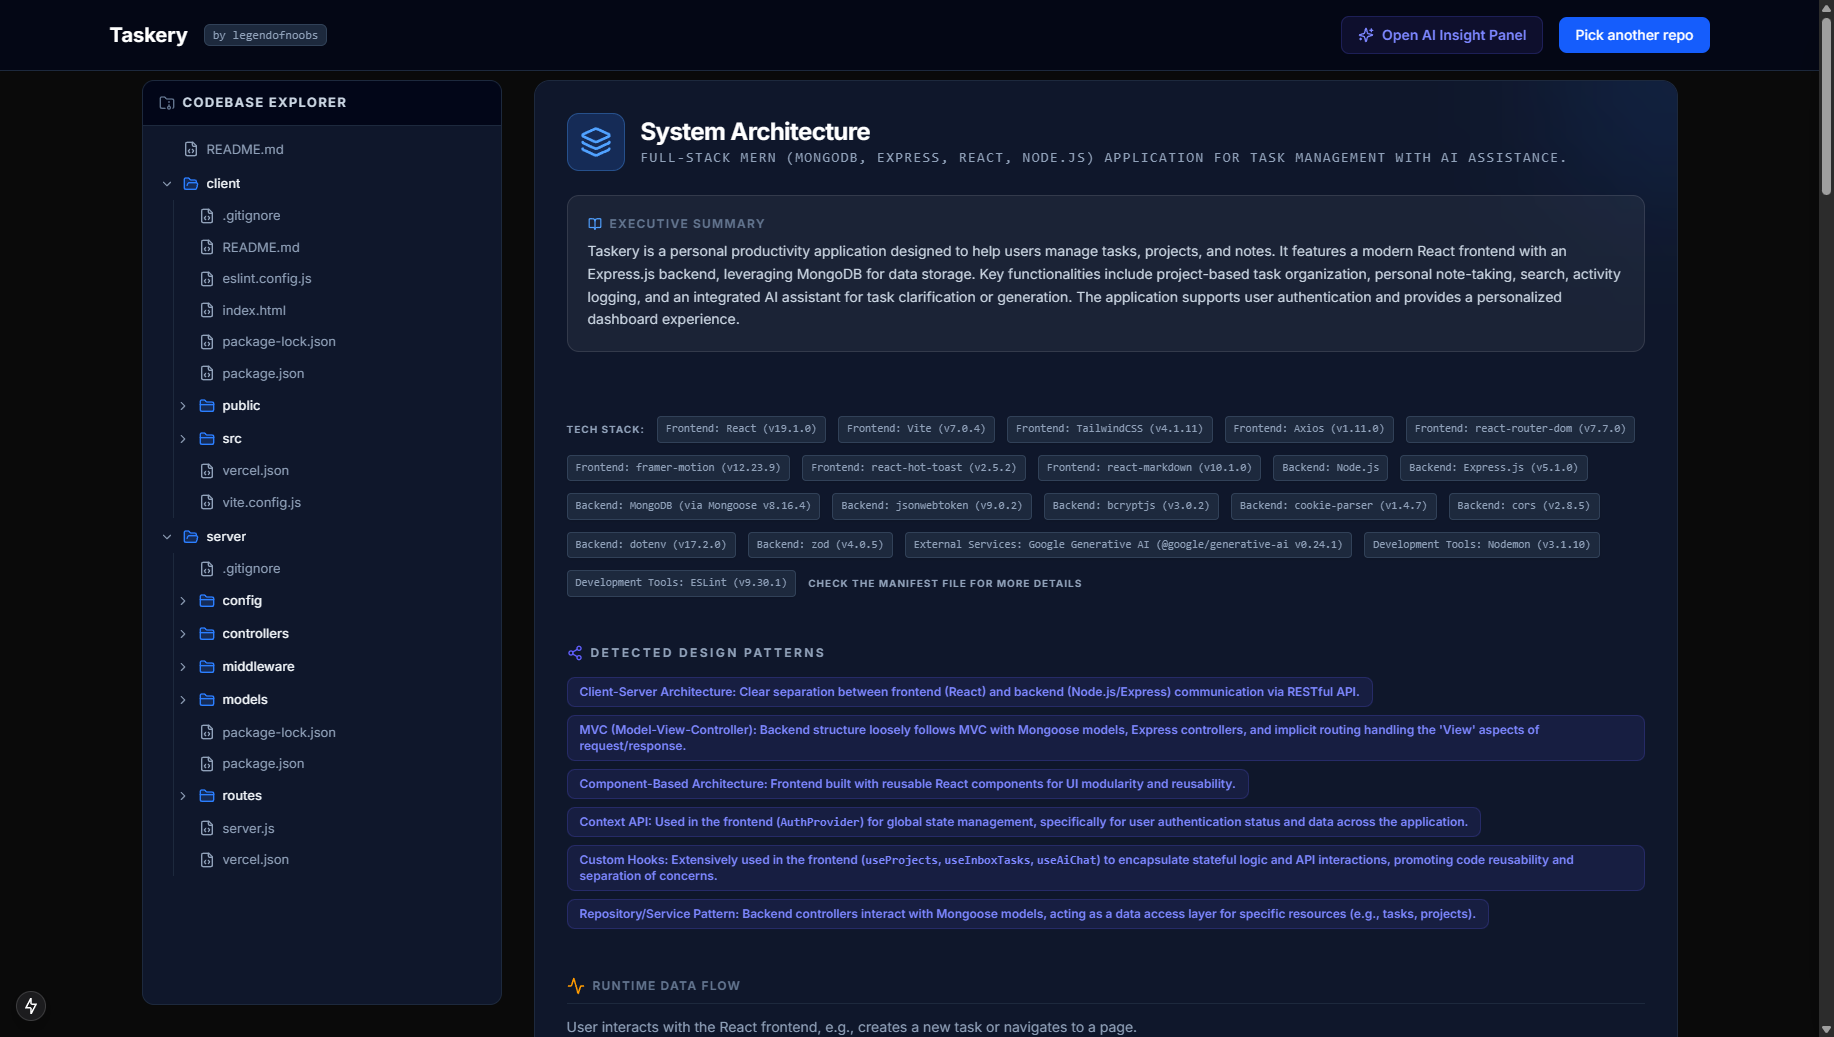
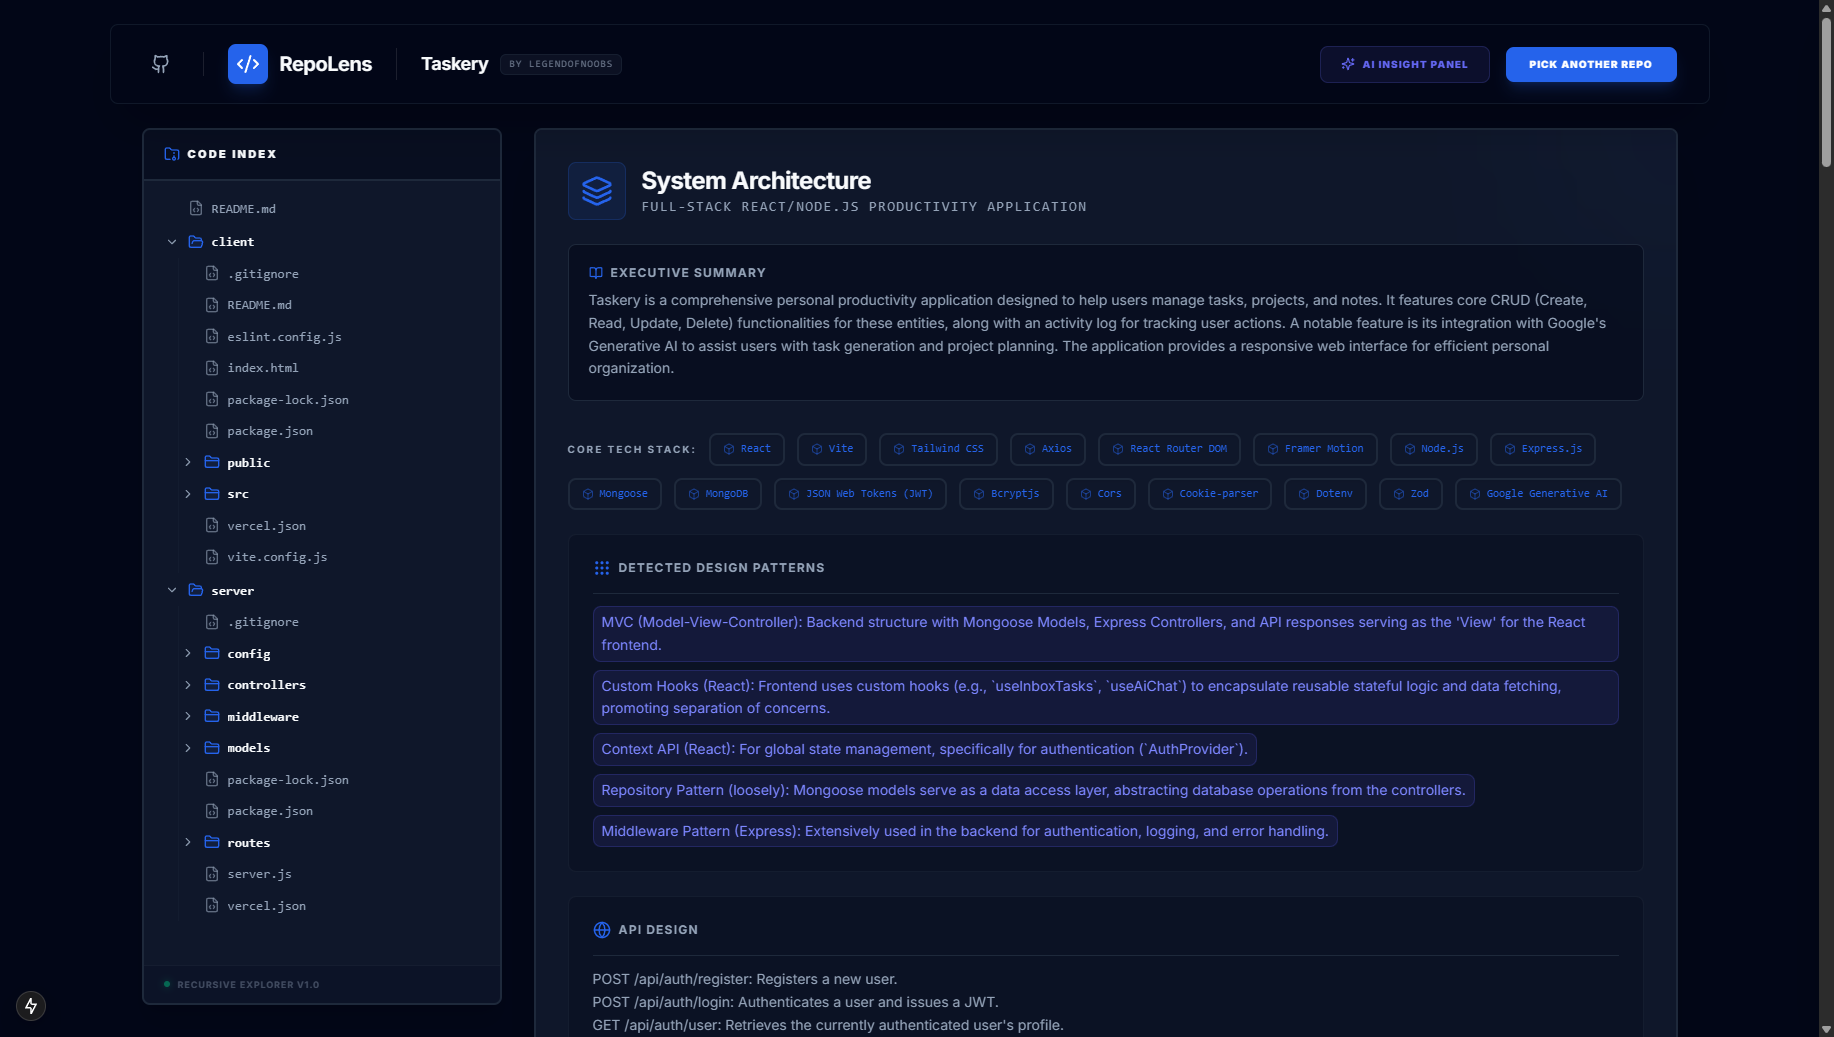
added detected design patterns

diff --git a/frontend/src/components/ArchitectureSummary.tsx b/frontend/src/components/ArchitectureSummary.tsx
@@ -7,7 +7,8 @@ import {
   ShieldCheck, TrendingUp, Zap, Box,
   Activity, Database, Globe, Wrench,
   CornerUpRight, HardDrive, BarChart3,
-  ThumbsUp, ThumbsDown
+  ThumbsUp, ThumbsDown,
+  Grip
 } from 'lucide-react';
 
 // Initialize mermaid
@@ -81,10 +82,10 @@ export const ArchitectureSummary = ({ summary }: { summary: IArchitectureSummary
   ];
 
   return (
-    <div className="bg-surface-card rounded-lg border-2 border-border-clean overflow-hidden shadow-2xl transition-all animate-in fade-in slide-in-from-right duration-500 mt-4">
+    <div className="bg-surface-card rounded-lg border-2 border-border-clean overflow-hidden shadow-2xl transition-all animate-in fade-in slide-in-from-right duration-500">
       
       {/* Header Section */}
-      <div className="bg-surface-card p-8 text-text-hero relative overflow-hidden">
+      <div className="bg-surface-card p-8 text-text-hero relative overflow-hidden pb-0">
         <div className="absolute top-0 right-0 w-64 h-64 glow-blue opacity-20 -mr-32 -mt-32" />
         <div className="relative z-10">
           <div className="flex items-center gap-4 mb-6">
@@ -109,9 +110,8 @@ export const ArchitectureSummary = ({ summary }: { summary: IArchitectureSummary
       </div>
 
       <div className="p-8 space-y-12">
-
         {/* Tech Stack */}
-        <section className="space-y-4">
+        <section className="space-y-4 mb-6">
           <div className="flex flex-wrap gap-3 items-center">
             <span className="text-[10px] font-bold text-text-body uppercase tracking-[0.2em]">Core Tech Stack:</span>
             {summary.techStack && summary.techStack.length > 0 ? (
@@ -122,13 +122,29 @@ export const ArchitectureSummary = ({ summary }: { summary: IArchitectureSummary
                 </span>
               ))
             ) : (
-              <span className="text-[11px] italic text-text-body">Scanning manifest...</span>
+              <span className="text-[11px] italic text-text-body">Could not generate tech stack.</span>
             )}
           </div>
         </section>
 
+        {/* Individual Design patterns Section with whitespace-pre-wrap */}
+        <div className="space-y-3 group bg-primary-bg/30 p-6 rounded-lg border border-border-clean/50 hover:border-accent-action/30 transition-all mb-6">
+          <h4 className="text-xs font-bold text-text-body uppercase tracking-widest flex items-center gap-2 border-b border-border-clean pb-4">
+            <Grip className="text-accent-action" size={18} /> Detected Design Patterns
+          </h4>
+          <div className="text-sm text-text-body leading-relaxed prose prose-invert max-w-none prose-sm whitespace-pre-wrap">
+            {summary.designPatterns ? 
+            <ul className='flex flex-wrap gap-2'>
+              {summary.designPatterns.map((pattern, i) => (
+                <li className='bg-indigo-500/10 border border-indigo-500/20 text-indigo-400 px-2 py-1 rounded-lg' key={i}>{pattern}</li>
+              ))}
+            </ul> 
+            : <span className="text-[11px] italic text-text-body">Could not generate design patterns.</span>}
+          </div>
+        </div>
+
         {/* Individual API Design Section with whitespace-pre-wrap */}
-        <div className="space-y-3 group bg-primary-bg/30 p-6 rounded-lg border border-border-clean/50 hover:border-accent-action/30 transition-all">
+        <div className="space-y-3 group bg-primary-bg/30 p-6 rounded-lg border border-border-clean/50 hover:border-accent-action/30 transition-all mb-6">
           <h4 className="text-xs font-bold text-text-body uppercase tracking-widest flex items-center gap-2 border-b border-border-clean pb-4">
             <Globe className="text-accent-action" size={18} /> API Design
           </h4>

diff --git a/frontend/src/app/dashboard/[id]/page.tsx b/frontend/src/app/dashboard/[id]/page.tsx
@@ -122,7 +122,7 @@ export default function Dashboard() {
   );
 
   return (
-    <div className="min-h-screen pb-20">
+    <div className="min-h-screen pb-16">
       {/* Header-like top bar */}
       <div className="fixed top-6 left-1/2 -translate-x-1/2 w-[95%] max-w-[1600px] z-30">
         <nav className="glass rounded-lg border border-white/10 px-8 h-20 flex items-center justify-between shadow-2xl backdrop-blur-xl">
@@ -170,7 +170,7 @@ export default function Dashboard() {
 
       <main className="w-full px-4 sm:px-8 mt-32 grid grid-cols-1 lg:grid-cols-12 gap-8 relative max-w-[1600px] mx-auto items-start">
         {/* Left Column: File Tree */}
-        <div className="lg:col-span-3 space-y-6 relative z-10 lg:sticky lg:top-36">
+        <div className="lg:col-span-3 space-y-6 relative z-10 lg:sticky lg:top-32">
           <FileTree
             tree={repo.fileTree}
             onFolderClick={handleFolderClick}